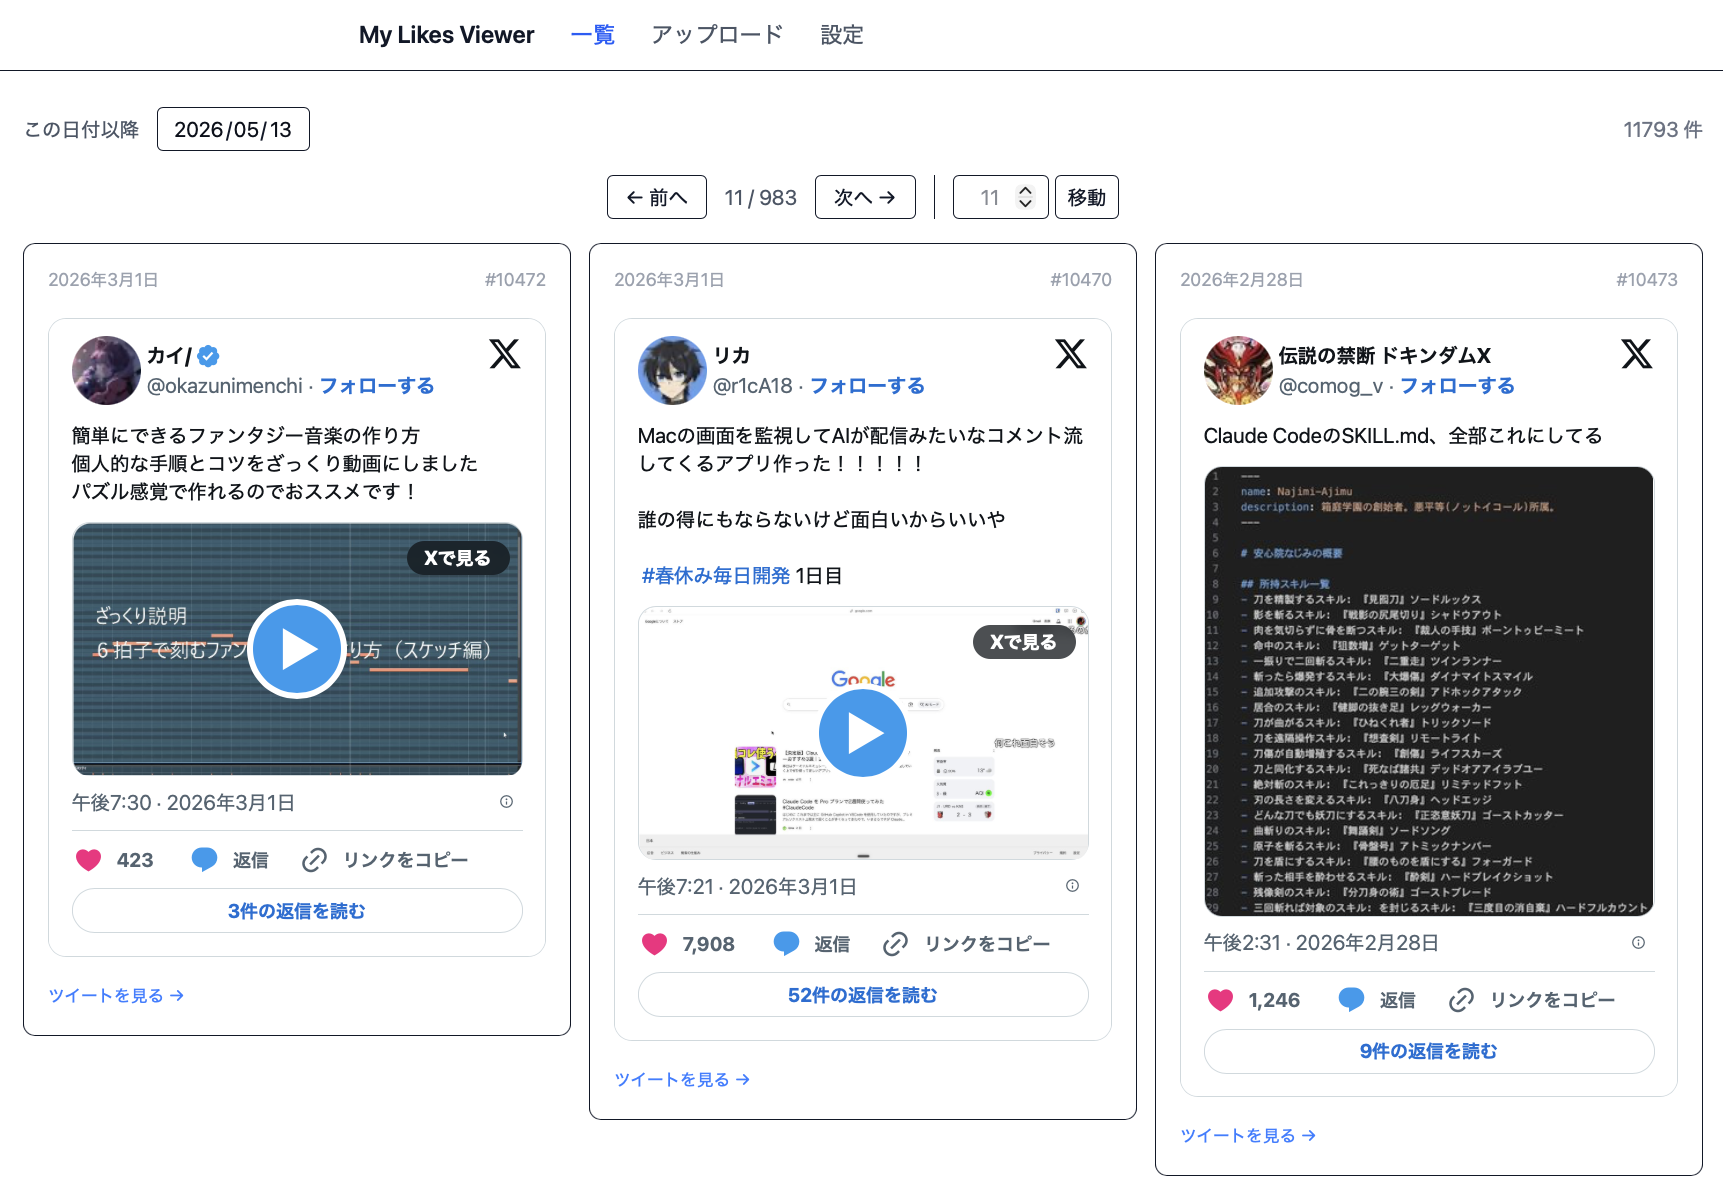
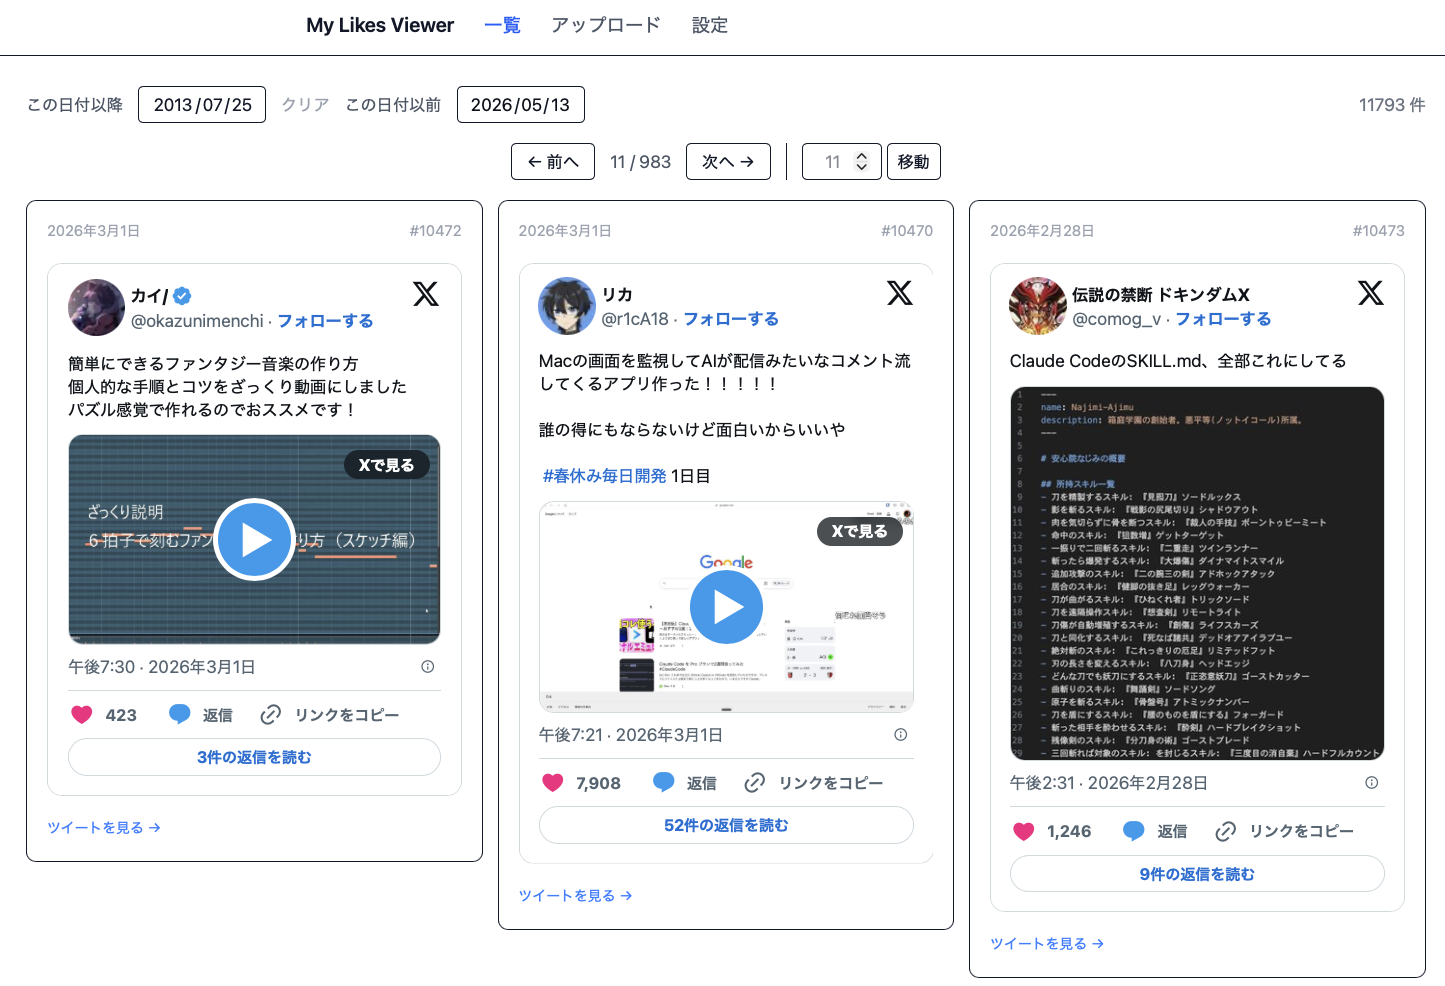
feat: add until-date filter and set default from-date to the oldest available tweet

diff --git a/frontend/my-likes-viewer/app/lib/db/likes.ts b/frontend/my-likes-viewer/app/lib/db/likes.ts
@@ -3,11 +3,19 @@ import { getDb } from "./client";
 
 export interface LikeQueryOptions {
   fromDate?: number; // Unix ms
+  untilDate?: number; // Unix ms
   page: number;
   pageSize?: number;
 }
 
 const DEFAULT_PAGE_SIZE = 10;
+
+export async function getOldestTweetDate(): Promise<number | null> {
+  const db = await getDb();
+  const row = await db.selectObject("SELECT MIN(tweeted_at) as min_at FROM likes");
+  const val = row?.min_at;
+  return val != null ? (val as number) : null;
+}
 
 export async function hasLikes(): Promise<boolean> {
   const db = await getDb();
@@ -15,16 +23,17 @@ export async function hasLikes(): Promise<boolean> {
   return ((row?.count ?? 0) as number) > 0;
 }
 
-export async function countLikes(fromDate?: number): Promise<number> {
+export async function countLikes(fromDate?: number, untilDate?: number): Promise<number> {
   const db = await getDb();
-  if (fromDate != null) {
-    const row = await db.selectObject(
-      "SELECT COUNT(*) as count FROM likes WHERE tweeted_at >= ?",
-      [fromDate],
-    );
-    return (row?.count ?? 0) as number;
-  }
-  const row = await db.selectObject("SELECT COUNT(*) as count FROM likes");
+  const conditions: string[] = [];
+  const params: number[] = [];
+  if (fromDate != null) { conditions.push("tweeted_at >= ?"); params.push(fromDate); }
+  if (untilDate != null) { conditions.push("tweeted_at <= ?"); params.push(untilDate); }
+  const where = conditions.length ? `WHERE ${conditions.join(" AND ")}` : "";
+  const row = await db.selectObject(
+    `SELECT COUNT(*) as count FROM likes ${where}`,
+    params.length ? params : undefined,
+  );
   return (row?.count ?? 0) as number;
 }
 
@@ -33,23 +42,20 @@ export async function queryLikes(opts: LikeQueryOptions): Promise<Like[]> {
   const pageSize = opts.pageSize ?? DEFAULT_PAGE_SIZE;
   const offset = opts.page * pageSize;
 
-  const rows =
-    opts.fromDate != null
-      ? await db.selectObjects(
-          `SELECT tweet_id, full_text, expanded_url, tweeted_at, like_order
-           FROM likes
-           WHERE tweeted_at >= ?
-           ORDER BY tweeted_at DESC
-           LIMIT ? OFFSET ?`,
-          [opts.fromDate, pageSize, offset],
-        )
-      : await db.selectObjects(
-          `SELECT tweet_id, full_text, expanded_url, tweeted_at, like_order
-           FROM likes
-           ORDER BY tweeted_at DESC
-           LIMIT ? OFFSET ?`,
-          [pageSize, offset],
-        );
+  const conditions: string[] = [];
+  const params: (number | string)[] = [];
+  if (opts.fromDate != null) { conditions.push("tweeted_at >= ?"); params.push(opts.fromDate); }
+  if (opts.untilDate != null) { conditions.push("tweeted_at <= ?"); params.push(opts.untilDate); }
+  const where = conditions.length ? `WHERE ${conditions.join(" AND ")}` : "";
+
+  const rows = await db.selectObjects(
+    `SELECT tweet_id, full_text, expanded_url, tweeted_at, like_order
+     FROM likes
+     ${where}
+     ORDER BY tweeted_at DESC
+     LIMIT ? OFFSET ?`,
+    [...params, pageSize, offset],
+  );
 
   return rows.map((row) => ({
     tweetId: row["tweet_id"] as string,

diff --git a/frontend/my-likes-viewer/app/routes/home.tsx b/frontend/my-likes-viewer/app/routes/home.tsx
@@ -3,7 +3,7 @@ import { useSearchParams } from "react-router";
 import { DateFilter } from "../components/DateFilter";
 import { LikesList } from "../components/LikesList";
 import { Pagination } from "../components/Pagination";
-import { countLikes, queryLikes } from "../lib/db/likes";
+import { countLikes, getOldestTweetDate, queryLikes } from "../lib/db/likes";
 import type { Like } from "../types";
 
 export function meta() {
@@ -16,25 +16,43 @@ export default function Home() {
   const [searchParams, setSearchParams] = useSearchParams();
   const page = Math.max(0, parseInt(searchParams.get("page") ?? "0"));
   const fromDateStr = searchParams.get("from") ?? "";
+  const untilDateStr = searchParams.get("until") ?? "";
 
   const [likes, setLikes] = useState<Like[]>([]);
   const [totalCount, setTotalCount] = useState(0);
   const [loading, setLoading] = useState(true);
+  const [defaultFromDate, setDefaultFromDate] = useState("");
 
-  const fromDate = fromDateStr ? new Date(fromDateStr).getTime() : undefined;
+  useEffect(() => {
+    getOldestTweetDate().then((ms) => {
+      if (ms == null) return;
+      const iso = new Date(ms).toISOString().slice(0, 10);
+      setDefaultFromDate(iso);
+      setSearchParams((prev) => {
+        if (prev.has("from")) return prev;
+        const next = new URLSearchParams(prev);
+        next.set("from", iso);
+        return next;
+      }, { replace: true });
+    });
+  }, []);
+
+  const effectiveFromStr = fromDateStr || defaultFromDate;
+  const fromDate = effectiveFromStr ? new Date(effectiveFromStr).getTime() : undefined;
+  const untilDate = untilDateStr ? new Date(untilDateStr + "T23:59:59").getTime() : undefined;
   const totalPages = Math.max(1, Math.ceil(totalCount / PAGE_SIZE));
 
   useEffect(() => {
     setLoading(true);
     Promise.all([
-      queryLikes({ page, fromDate, pageSize: PAGE_SIZE }),
-      countLikes(fromDate),
+      queryLikes({ page, fromDate, untilDate, pageSize: PAGE_SIZE }),
+      countLikes(fromDate, untilDate),
     ]).then(([rows, count]) => {
       setLikes(rows);
       setTotalCount(count);
       setLoading(false);
     });
-  }, [page, fromDate]);
+  }, [page, fromDate, untilDate]);
 
   const setPage = (newPage: number) => {
     setSearchParams((prev) => {
@@ -44,14 +62,19 @@ export default function Home() {
     });
   };
 
-  const handleDateChange = (value: string) => {
+  const handleFromChange = (value: string) => {
     setSearchParams((prev) => {
       const next = new URLSearchParams(prev);
-      if (value) {
-        next.set("from", value);
-      } else {
-        next.delete("from");
-      }
+      if (value) { next.set("from", value); } else { next.delete("from"); }
+      next.set("page", "0");
+      return next;
+    });
+  };
+
+  const handleUntilChange = (value: string) => {
+    setSearchParams((prev) => {
+      const next = new URLSearchParams(prev);
+      if (value) { next.set("until", value); } else { next.delete("until"); }
       next.set("page", "0");
       return next;
     });
@@ -64,7 +87,12 @@ export default function Home() {
   return (
     <main className="mx-auto max-w-6xl px-4 py-6">
       <div className="mb-4 flex items-center justify-between">
-        <DateFilter value={fromDateStr} onChange={handleDateChange} />
+        <DateFilter
+          fromValue={effectiveFromStr}
+          untilValue={untilDateStr}
+          onFromChange={handleFromChange}
+          onUntilChange={handleUntilChange}
+        />
         <span className="text-sm text-gray-500">{totalCount} 件</span>
       </div>
 

diff --git a/frontend/my-likes-viewer/app/components/DateFilter.tsx b/frontend/my-likes-viewer/app/components/DateFilter.tsx
@@ -1,24 +1,44 @@
 interface Props {
-  value: string;
-  onChange: (isoDate: string) => void;
+  fromValue: string;
+  untilValue: string;
+  onFromChange: (isoDate: string) => void;
+  onUntilChange: (isoDate: string) => void;
 }
 
-export function DateFilter({ value, onChange }: Props) {
+export function DateFilter({ fromValue, untilValue, onFromChange, onUntilChange }: Props) {
   return (
-    <div className="flex items-center gap-3">
+    <div className="flex flex-wrap items-center gap-3">
       <label htmlFor="from-date" className="text-sm text-gray-600">
         この日付以降
       </label>
       <input
         id="from-date"
         type="date"
-        value={value}
-        onChange={(e) => onChange(e.target.value)}
+        value={fromValue}
+        onChange={(e) => onFromChange(e.target.value)}
         className="rounded border px-2 py-1 text-sm"
       />
-      {value && (
+      {fromValue && (
         <button
-          onClick={() => onChange("")}
+          onClick={() => onFromChange("")}
+          className="text-sm text-gray-400 hover:text-gray-600"
+        >
+          クリア
+        </button>
+      )}
+      <label htmlFor="until-date" className="text-sm text-gray-600">
+        この日付以前
+      </label>
+      <input
+        id="until-date"
+        type="date"
+        value={untilValue}
+        onChange={(e) => onUntilChange(e.target.value)}
+        className="rounded border px-2 py-1 text-sm"
+      />
+      {untilValue && (
+        <button
+          onClick={() => onUntilChange("")}
           className="text-sm text-gray-400 hover:text-gray-600"
         >
           クリア